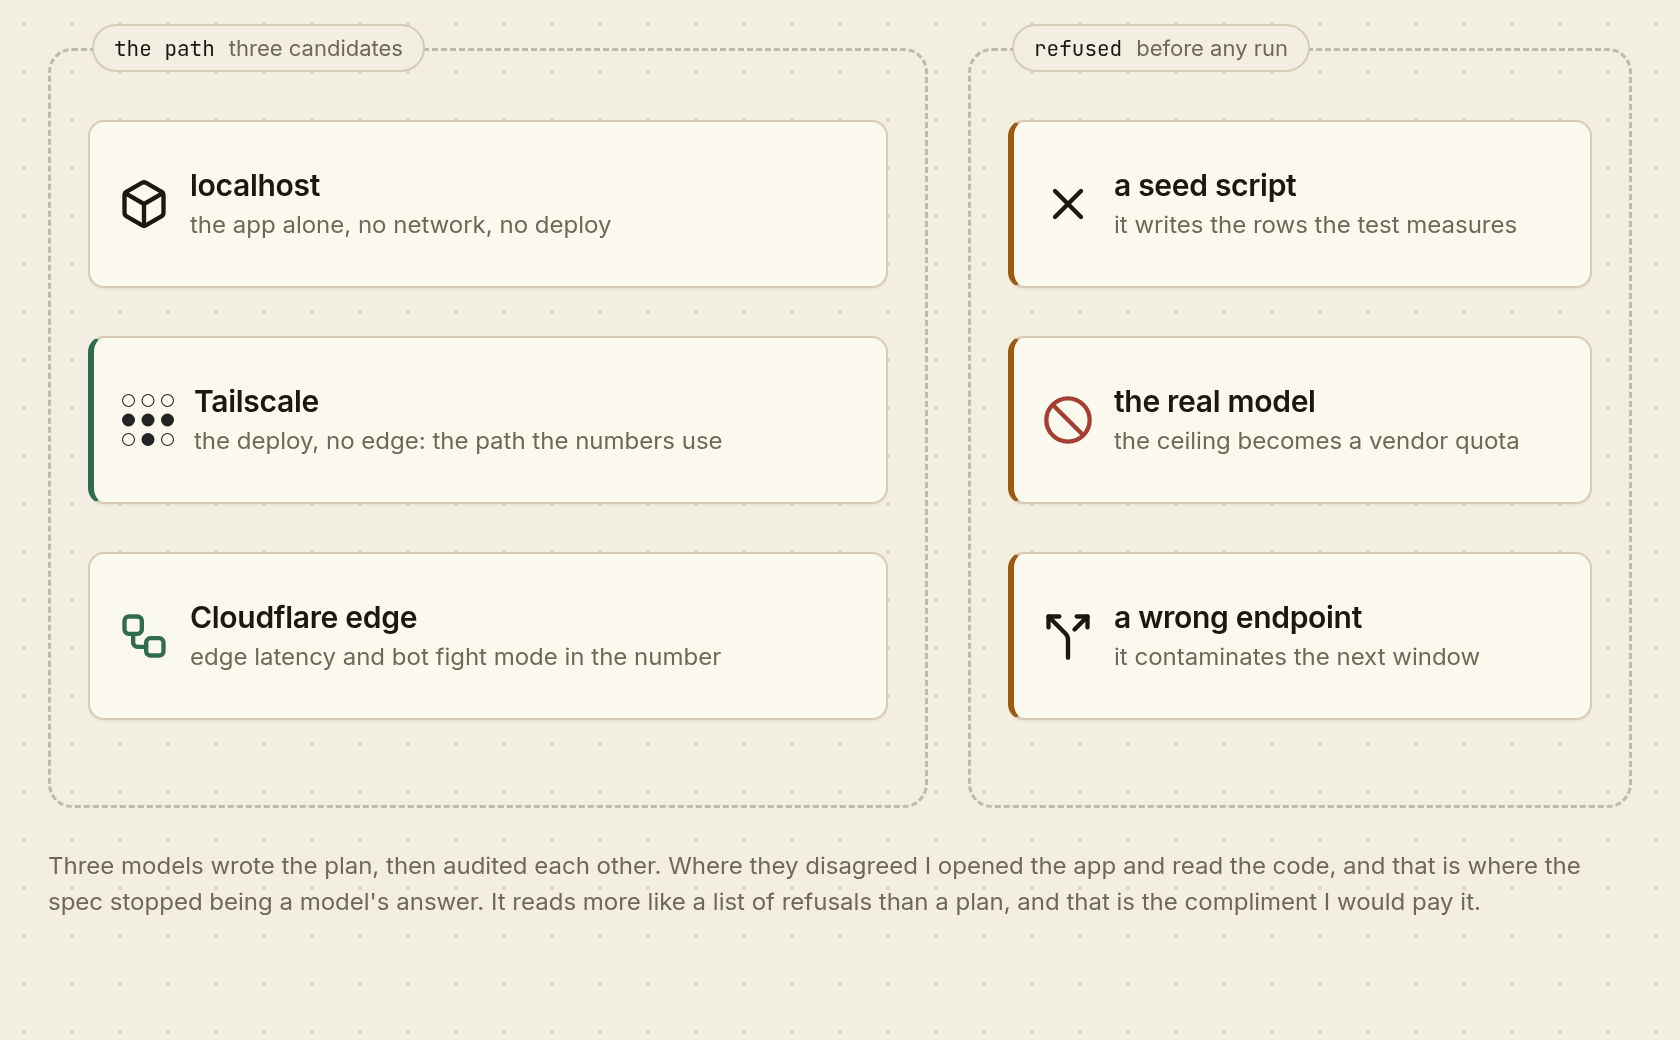
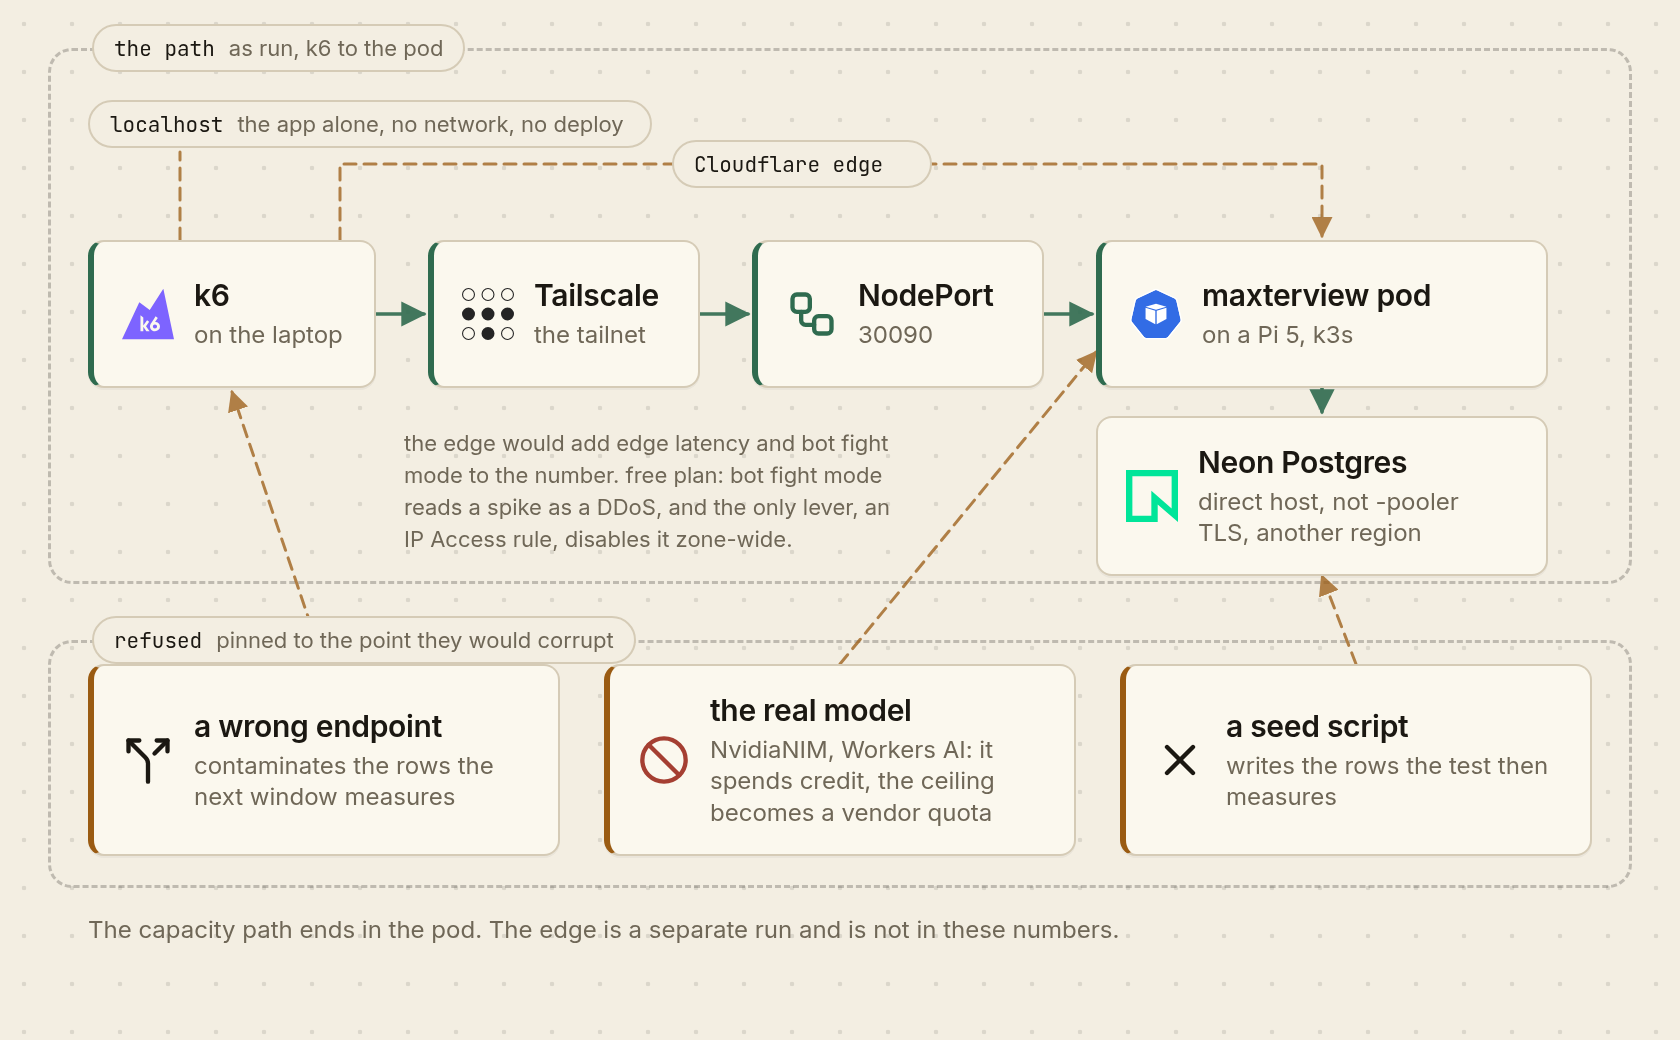
ref(diagram): remake the sre spec paths figure

diff --git a/frontend/scripts/diagrams/sre-spec-paths.html b/frontend/scripts/diagrams/sre-spec-paths.html
@@ -28,6 +28,7 @@
         font-family: Inter, "DejaVu Sans", sans-serif;
         color: var(--ink);
     }
+    #wires { position: absolute; inset: 0; z-index: 1; }
     .zone {
         position: absolute;
         border: 1.5px dashed rgba(27, 24, 18, 0.24);
@@ -36,7 +37,6 @@
     }
     .zone-label {
         position: absolute;
-        left: 46px;
         display: flex;
         align-items: center;
         gap: 7px;
@@ -46,6 +46,7 @@
         border: 1px solid var(--line);
         border-radius: 99px;
         z-index: 3;
+        white-space: nowrap;
     }
     .zone-label .tag { font-family: "JetBrains Mono", "DejaVu Sans Mono", monospace; font-size: 10.5px; color: var(--ink); }
     .zone-label .sub { font-size: 11px; color: var(--muted); }
@@ -65,7 +66,7 @@
     .node .title { font-size: 15px; font-weight: 600; letter-spacing: -0.01em; line-height: 1.2; }
     .node .sub { margin-top: 3px; font-size: 12px; color: var(--muted); line-height: 1.3; }
     .node.pick { border-left: 3px solid var(--accent); }
-    .node.amber { border-left: 3px solid var(--amber); }
+    .node.refused { border-left: 3px solid var(--amber); }
     .note {
         position: absolute;
         font-size: 12px;
@@ -73,60 +74,115 @@
         color: var(--muted);
         z-index: 3;
     }
+    .caption {
+        position: absolute;
+        font-size: 11px;
+        line-height: 1.45;
+        color: var(--muted);
+        z-index: 3;
+    }
 </style>
 </head>
 <body>
 <div id="canvas">
-    <div class="zone" style="left:24px; top:24px; width:440px; height:380px;"></div>
-    <div class="zone-label" style="left:46px; top:12px;"><span class="tag">the path</span><span class="sub">three candidates</span></div>
-    <div class="node" style="left:44px; top:60px; width:400px; height:84px;">
-        <img src="icons/line/box.svg" alt="" />
+    <svg id="wires" viewBox="0 0 840 520" xmlns="http://www.w3.org/2000/svg">
+        <defs>
+            <marker id="arrow" viewBox="0 0 10 10" refX="9" refY="5" markerWidth="7" markerHeight="7" orient="auto-start-reverse">
+                <path d="M0,0 L10,5 L0,10 Z" fill="#2f6b4f" />
+            </marker>
+            <marker id="arrow-amber" viewBox="0 0 10 10" refX="9" refY="5" markerWidth="7" markerHeight="7" orient="auto-start-reverse">
+                <path d="M0,0 L10,5 L0,10 Z" fill="#9a5b12" />
+            </marker>
+        </defs>
+
+        <g fill="none" stroke="#2f6b4f" stroke-width="1.8" stroke-linecap="round" opacity="0.9">
+            <path d="M188,157 H212" marker-end="url(#arrow)" />
+            <path d="M350,157 H374" marker-end="url(#arrow)" />
+            <path d="M522,157 H546" marker-end="url(#arrow)" />
+            <path d="M661,194 V206" marker-end="url(#arrow)" />
+        </g>
+
+        <g fill="none" stroke="#9a5b12" stroke-width="1.5" stroke-linecap="round" stroke-linejoin="round" stroke-dasharray="6 4" opacity="0.75">
+            <path d="M170,120 V82 H661 V118" marker-end="url(#arrow-amber)" />
+            <path d="M90,120 V76" />
+            <path d="M162,332 L116,196" marker-end="url(#arrow-amber)" />
+            <path d="M420,332 L548,176" marker-end="url(#arrow-amber)" />
+            <path d="M678,332 L661,288" marker-end="url(#arrow-amber)" />
+        </g>
+    </svg>
+
+    <div class="zone" style="left:24px; top:24px; width:792px; height:268px;"></div>
+    <div class="zone-label" style="left:46px; top:12px;"><span class="tag">the path</span><span class="sub">as run, k6 to the pod</span></div>
+
+    <div class="node pick" style="left:44px; top:120px; width:144px; height:74px;">
+        <img src="icons/brands/k6.svg" alt="" />
         <div>
-            <div class="title">localhost</div>
-            <div class="sub">the app alone, no network, no deploy</div>
+            <div class="title">k6</div>
+            <div class="sub">on the laptop</div>
         </div>
     </div>
-    <div class="node pick" style="left:44px; top:168px; width:400px; height:84px;">
+    <div class="node pick" style="left:214px; top:120px; width:136px; height:74px;">
         <img src="icons/brands/tailscale.svg" alt="" />
         <div>
             <div class="title">Tailscale</div>
-            <div class="sub">the deploy, no edge: the path the numbers use</div>
+            <div class="sub">the tailnet</div>
         </div>
     </div>
-    <div class="node" style="left:44px; top:276px; width:400px; height:84px;">
+    <div class="node pick" style="left:376px; top:120px; width:146px; height:74px;">
         <img src="icons/line/workflow.svg" alt="" />
         <div>
-            <div class="title">Cloudflare edge</div>
-            <div class="sub">edge latency and bot fight mode in the number</div>
+            <div class="title">NodePort</div>
+            <div class="sub">30090</div>
+        </div>
+    </div>
+    <div class="node pick" style="left:548px; top:120px; width:226px; height:74px;">
+        <img src="icons/brands/kubernetes-pod.svg" alt="" />
+        <div>
+            <div class="title">maxterview pod</div>
+            <div class="sub">on a Pi 5, k3s</div>
+        </div>
+    </div>
+    <div class="node" style="left:548px; top:208px; width:226px; height:80px;">
+        <img src="icons/brands/neon.svg" alt="" />
+        <div>
+            <div class="title">Neon Postgres</div>
+            <div class="sub">direct host, not -pooler<br />TLS, another region</div>
         </div>
     </div>
 
-    <div class="zone" style="left:484px; top:24px; width:332px; height:380px;"></div>
-    <div class="zone-label" style="left:506px; top:12px;"><span class="tag">refused</span><span class="sub">before any run</span></div>
-    <div class="node amber" style="left:504px; top:60px; width:292px; height:84px;">
-        <img src="icons/line/x.svg" alt="" />
-        <div>
-            <div class="title">a seed script</div>
-            <div class="sub">it writes the rows the test measures</div>
-        </div>
+    <div class="zone-label" style="left:44px; top:50px; width:282px;"><span class="tag">localhost</span><span class="sub">the app alone, no network, no deploy</span></div>
+    <div class="zone-label" style="left:336px; top:70px; width:130px;"><span class="tag">Cloudflare edge</span></div>
+    <div class="caption" style="left:202px; top:214px; width:250px;">
+        the edge would add edge latency and bot fight mode to the number. free plan: bot fight mode reads a spike as a DDoS, and the only lever, an IP Access rule, disables it zone-wide.
     </div>
-    <div class="node amber" style="left:504px; top:168px; width:292px; height:84px;">
-        <img src="icons/line/ban.svg" alt="" />
-        <div>
-            <div class="title">the real model</div>
-            <div class="sub">the ceiling becomes a vendor quota</div>
-        </div>
-    </div>
-    <div class="node amber" style="left:504px; top:276px; width:292px; height:84px;">
+
+    <div class="zone" style="left:24px; top:320px; width:792px; height:124px;"></div>
+    <div class="zone-label" style="left:46px; top:308px;"><span class="tag">refused</span><span class="sub">pinned to the point they would corrupt</span></div>
+
+    <div class="node refused" style="left:44px; top:332px; width:236px; height:96px;">
         <img src="icons/line/split.svg" alt="" />
         <div>
             <div class="title">a wrong endpoint</div>
-            <div class="sub">it contaminates the next window</div>
+            <div class="sub">contaminates the rows the next window measures</div>
+        </div>
+    </div>
+    <div class="node refused" style="left:302px; top:332px; width:236px; height:96px;">
+        <img src="icons/line/ban.svg" alt="" />
+        <div>
+            <div class="title">the real model</div>
+            <div class="sub">NvidiaNIM, Workers AI: it spends credit, the ceiling becomes a vendor quota</div>
+        </div>
+    </div>
+    <div class="node refused" style="left:560px; top:332px; width:236px; height:96px;">
+        <img src="icons/line/x.svg" alt="" />
+        <div>
+            <div class="title">a seed script</div>
+            <div class="sub">writes the rows the test then measures</div>
         </div>
     </div>
 
-    <div class="note" style="left:24px; top:424px; width:792px;">
-        Three models wrote the plan, then audited each other. Where they disagreed I opened the app and read the code, and that is where the spec stopped being a model's answer. It reads more like a list of refusals than a plan, and that is the compliment I would pay it.
+    <div class="note" style="left:44px; top:456px; width:772px;">
+        The capacity path ends in the pod. The edge is a separate run and is not in these numbers.
     </div>
 </div>
 </body>
